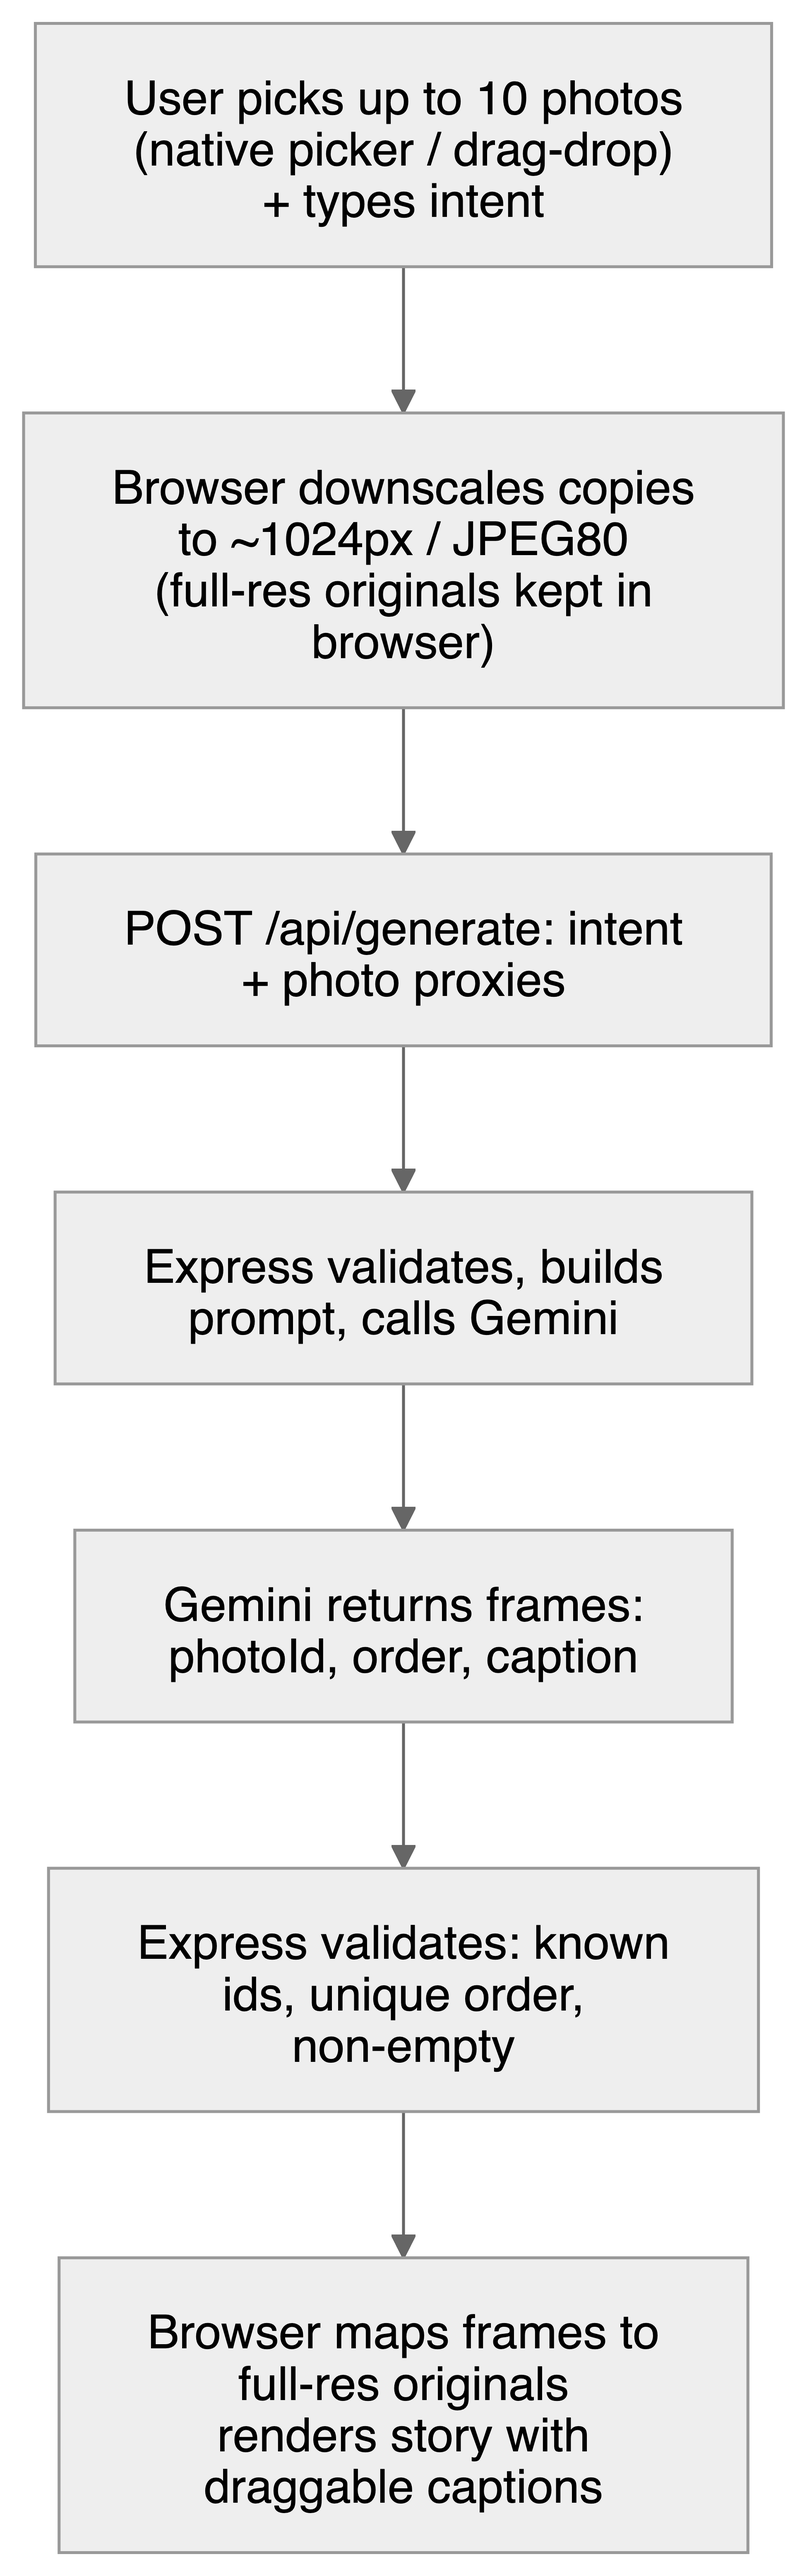
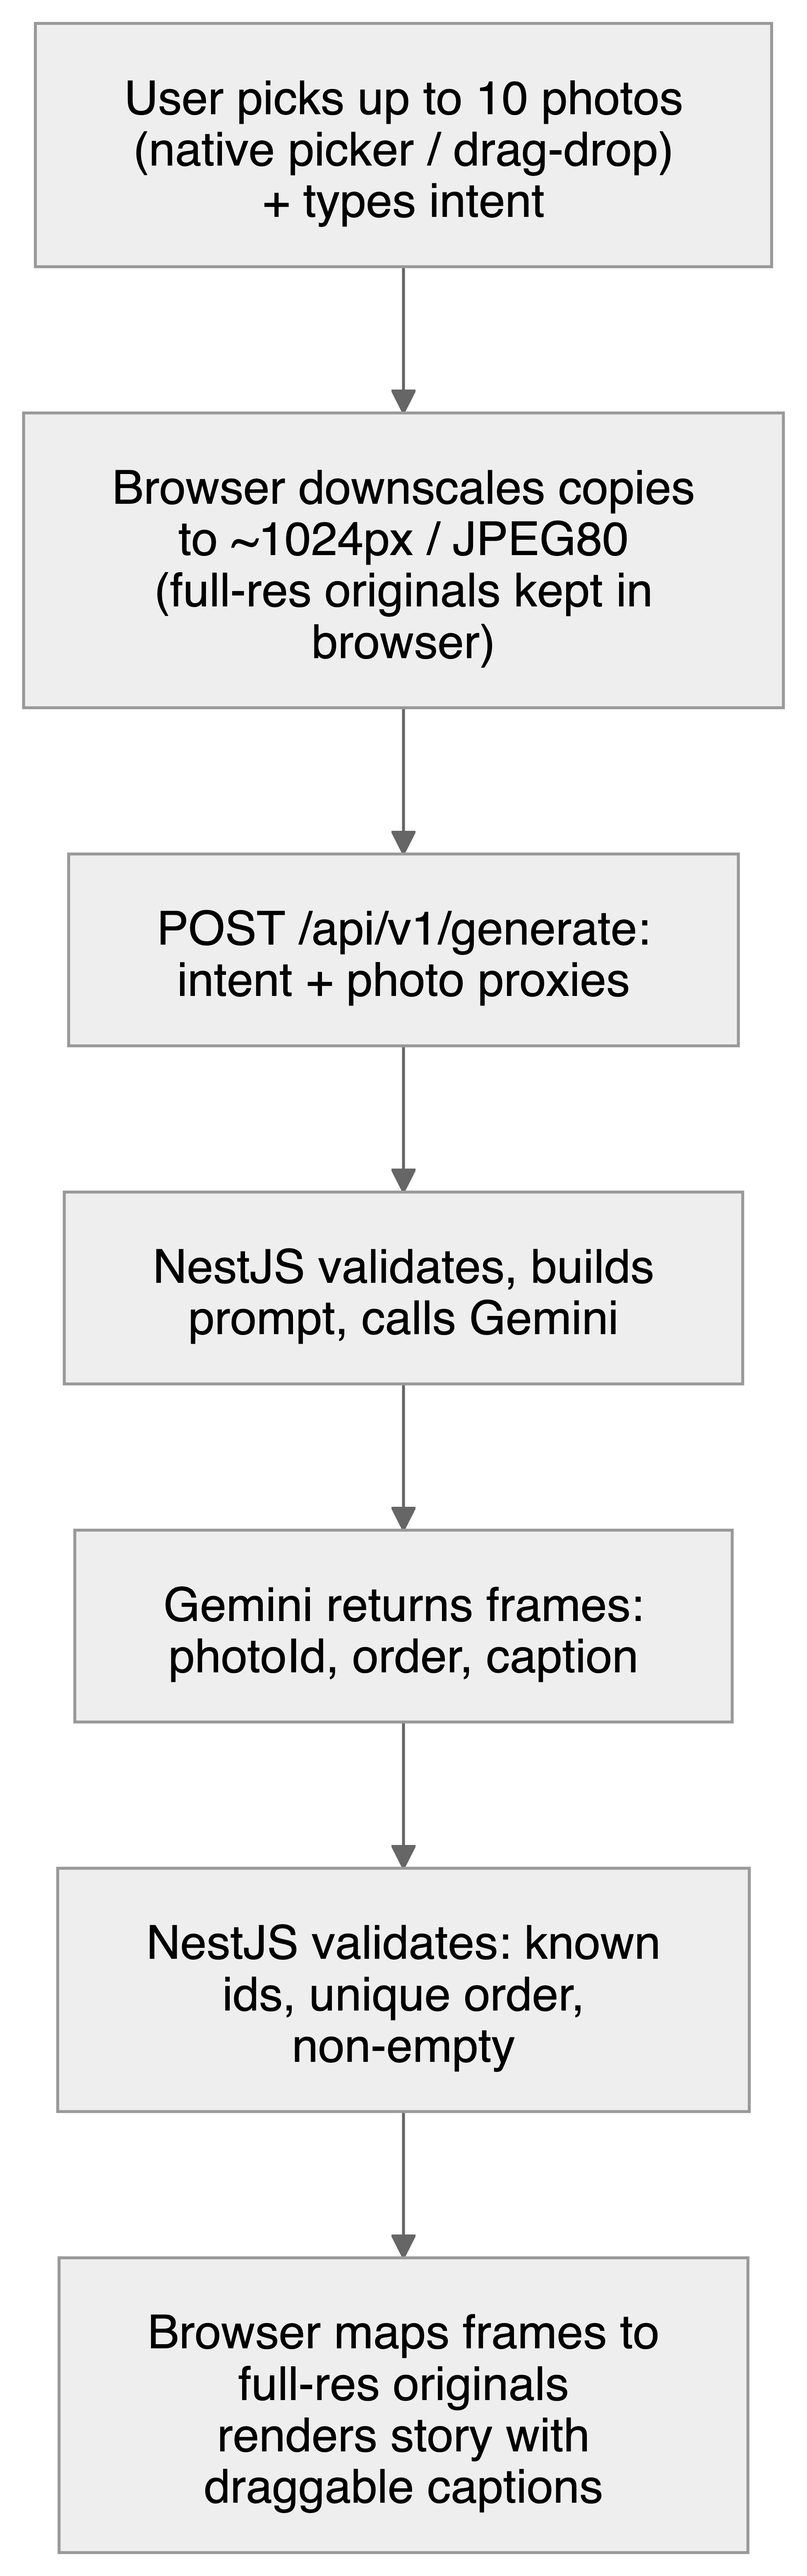
docs: adopt URI-path API versioning (/api/v1)
Version the API in the path so the contract can evolve without breaking
existing clients, and a reviewer can hit /api/v1/generate directly. Record
the decision (approach 2.12), set it as the standard in CLAUDE.md, update
all example paths, and re-render both diagrams (also fixes data-flow still
showing Express).

diff --git a/docs/phase-1/architecture.md b/docs/phase-1/architecture.md
@@ -34,13 +34,13 @@ The browser never holds the API key. The NestJS server is stateless — no datab
 - Preview: ordered photos with a draggable/resizable caption layer (Angular **CDK drag-drop**). No pixel baking in Phase 1.
 - State in a small Angular **service (signals)**.
 
-**Backend (NestJS, `POST /api/generate`)** — also serves the built Angular app from the same origin (`ServeStaticModule`). Server-side, so the Gemini key stays hidden and users never bring their own key. Jobs: input validation, prompt construction, the Gemini call, output validation, logging.
+**Backend (NestJS, `POST /api/v1/generate`)** — also serves the built Angular app from the same origin (`ServeStaticModule`). Server-side, so the Gemini key stays hidden and users never bring their own key. Jobs: input validation, prompt construction, the Gemini call, output validation, logging.
 
 **Model (Gemini Flash)** — called via the `@google/genai` SDK with `responseSchema` for guaranteed-shape JSON. `MODEL` is an env var, so a stronger model is a one-line swap.
 
 ## The generation contract
 
-**Request** `POST /api/generate`
+**Request** `POST /api/v1/generate`
 ```json
 { "intent": "weekend hike, funny tone",
   "photos": [ { "id": "p1", "b64": "<downscaled jpeg>", "takenAt": "2026-07-04T09:12:00Z" } ] }
@@ -63,7 +63,7 @@ Story  { id, intent, frames: Frame[], createdAt }
 
 ## Deployment
 
-- **App:** one NestJS server serves the built Angular app (`dist/`) and the `/api/generate` endpoint. Provide a **`docker-compose.yml`** so reviewers can `docker compose up` in a fresh Linux container, and host the same image **free on Render** (spins down when idle; ~30-50s cold start on first hit) for a live URL — both required by the brief.
+- **App:** one NestJS server serves the built Angular app (`dist/`) and the `/api/v1/generate` endpoint. Provide a **`docker-compose.yml`** so reviewers can `docker compose up` in a fresh Linux container, and host the same image **free on Render** (spins down when idle; ~30-50s cold start on first hit) for a live URL — both required by the brief.
 - **Secrets:** `GEMINI_API_KEY` and `MODEL` are server-side env vars only. The browser bundle contains no key.
 
 ## Edge cases & failure modes
@@ -91,7 +91,7 @@ The NestJS server logs per request: `requestId`, `model`, photo count, `latencyM
 Model is non-deterministic, so test **plumbing deterministically**, **quality separately**:
 - **Unit** — downscale util, prompt builder, response validator (schema, unknown ids, duplicate order, empty caption).
 - **Component** — Angular components via **CDK component harnesses** (upload, preview, caption drag/edit).
-- **Contract** — NestJS `/api/generate` against mock Gemini responses (valid / malformed / hallucinated id / empty) → each maps to the right outcome.
+- **Contract** — NestJS `/api/v1/generate` against mock Gemini responses (valid / malformed / hallucinated id / empty) → each maps to the right outcome.
 - **E2E** — Cypress/Playwright: upload → generate → render against a stubbed API.
 - **Quality eval** — fixed sample photo sets + intents → real model → rubric-score ordering + caption specificity. Run on model/prompt change.
 

diff --git a/docs/approach.md b/docs/approach.md
@@ -113,7 +113,7 @@ The technical decisions for building Phase 1 (create the story).
 ### 2.6 Deploy
 - **Problem:** The brief wants a live URL and code that runs in a fresh Linux container.
 - **Options:** Vercel (serverless, not our container); Railway (no free tier — trial credit then paid); Render (real free tier, no card); Fly (free tier gone).
-- **Decision:** One Docker container — NestJS serves the built Angular app + `/api/generate` — with a `docker-compose.yml`, hosted **free on Render**.
+- **Decision:** One Docker container — NestJS serves the built Angular app + `/api/v1/generate` — with a `docker-compose.yml`, hosted **free on Render**.
 - **Why:** I don't want to pay for a take-home. Render is the only one of these with a genuine free tier and no credit card, and it runs our Docker image directly (the same one reviewers run via compose). The only cost is a cold start (~30-50s to wake after 15 min idle), fine for a demo. This is a take-home cost call, not a production one — in production the cold start would be unacceptable and I'd move to an always-on paid tier. Hosting doesn't affect the graded outcome (story quality), so for the take-home I picked the free, simplest option.
 
 ### 2.7 Latency UX
@@ -139,6 +139,12 @@ The technical decisions for building Phase 1 (create the story).
 - **Options:** a plain file-browser dialog; a custom uploader UI; a standard `<input type="file" accept="image/*" multiple>`.
 - **Decision:** A standard multi-select file input, styled as one big "Add photos" target.
 - **Why:** On mobile, that input opens the OS **native photo picker** (multi-select, Recents-first) — the same grid a native app shows, with no library-scan permission on our side, so "manual upload" is really one tap + a few selections. On desktop it also takes drag-drop / click-to-browse / paste. Recents-first is what makes Phase 3's "make a story from last week" quick. This is why the web pivot (2.9) doesn't hurt the flow: the only phase where auto-scan would have helped is Phase 3, and the native picker's Recents view covers it.
+
+### 2.12 API versioning
+- **Problem:** Production-like and meant to scale — the API contract will change, and existing clients shouldn't break when it does.
+- **Options:** URI path (`/api/v1/…`); custom header (`X-API-Version: 1`); media-type (`Accept: application/json;version=1`).
+- **Decision:** URI-path versioning (`/api/v1/generate`).
+- **Why:** Most visible and testable — a reviewer can hit `/api/v1/generate` in a browser, and a `v2` ships alongside `v1` without breaking `v1` clients. The header and media-type styles can't be called or debugged without setting a header. NestJS supports all three as a one-line config, so this isn't a lock-in.
 
 ### 2.9 Native mobile app or web app? (came late)
 - **Problem:** I'd been designing a native mobile app. Re-reading the brief, Option 2 says "deployable web app," reviewers run the code "in a fresh Linux container," and a live URL is wanted.

diff --git a/CLAUDE.md b/CLAUDE.md
@@ -27,6 +27,7 @@ Auto Stories — a responsive web app (Angular frontend + NestJS backend, deploy
 - Upload is one tap: on mobile the file input opens the OS native photo picker (multi-select, Recents-first); on desktop, drag-drop / browse / paste. Web can't auto-scan the library, so every phase brings the user to this same picker.
 - AI writes captions; user drags/resizes text placement.
 - Music, GIFs, interaction stickers are out; the app only suggests music search terms.
+- API uses NestJS URI-path versioning as standard — every endpoint is versioned in the path (`/api/v1/…`).
 
 ## Git conventions
 - **Conventional Commits only.** Every commit message uses the `type: summary` form (`feat:`, `fix:`, `docs:`, `refactor:`, `chore:`, `test:`, etc.).
